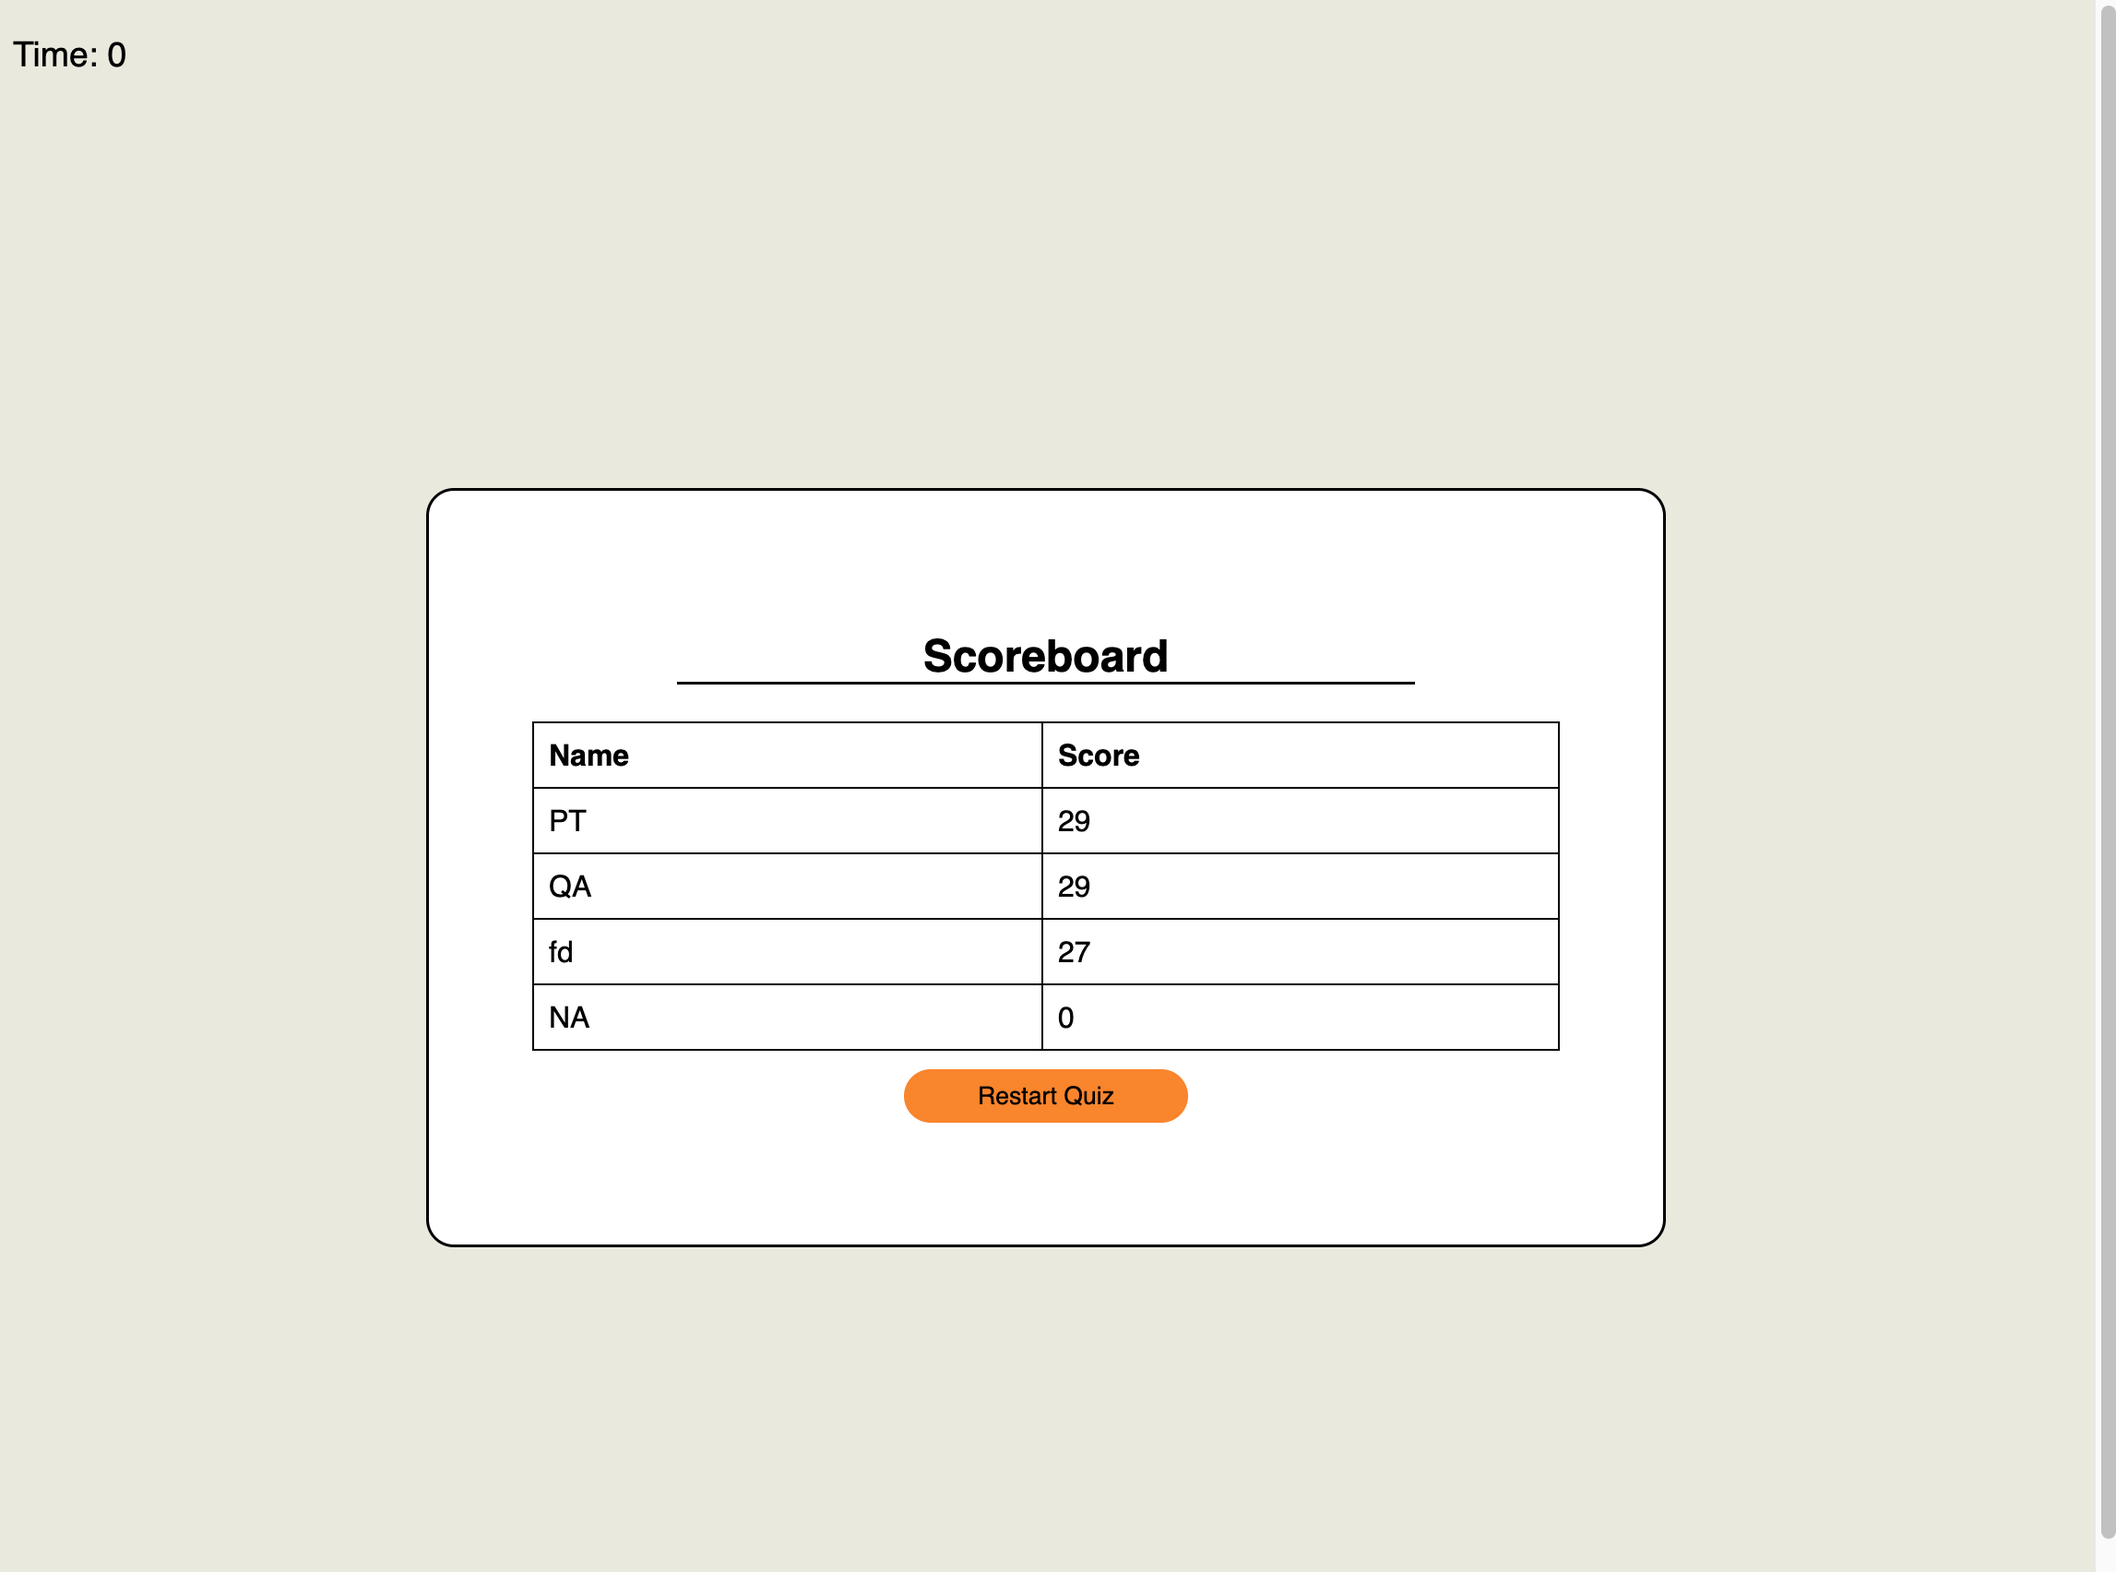
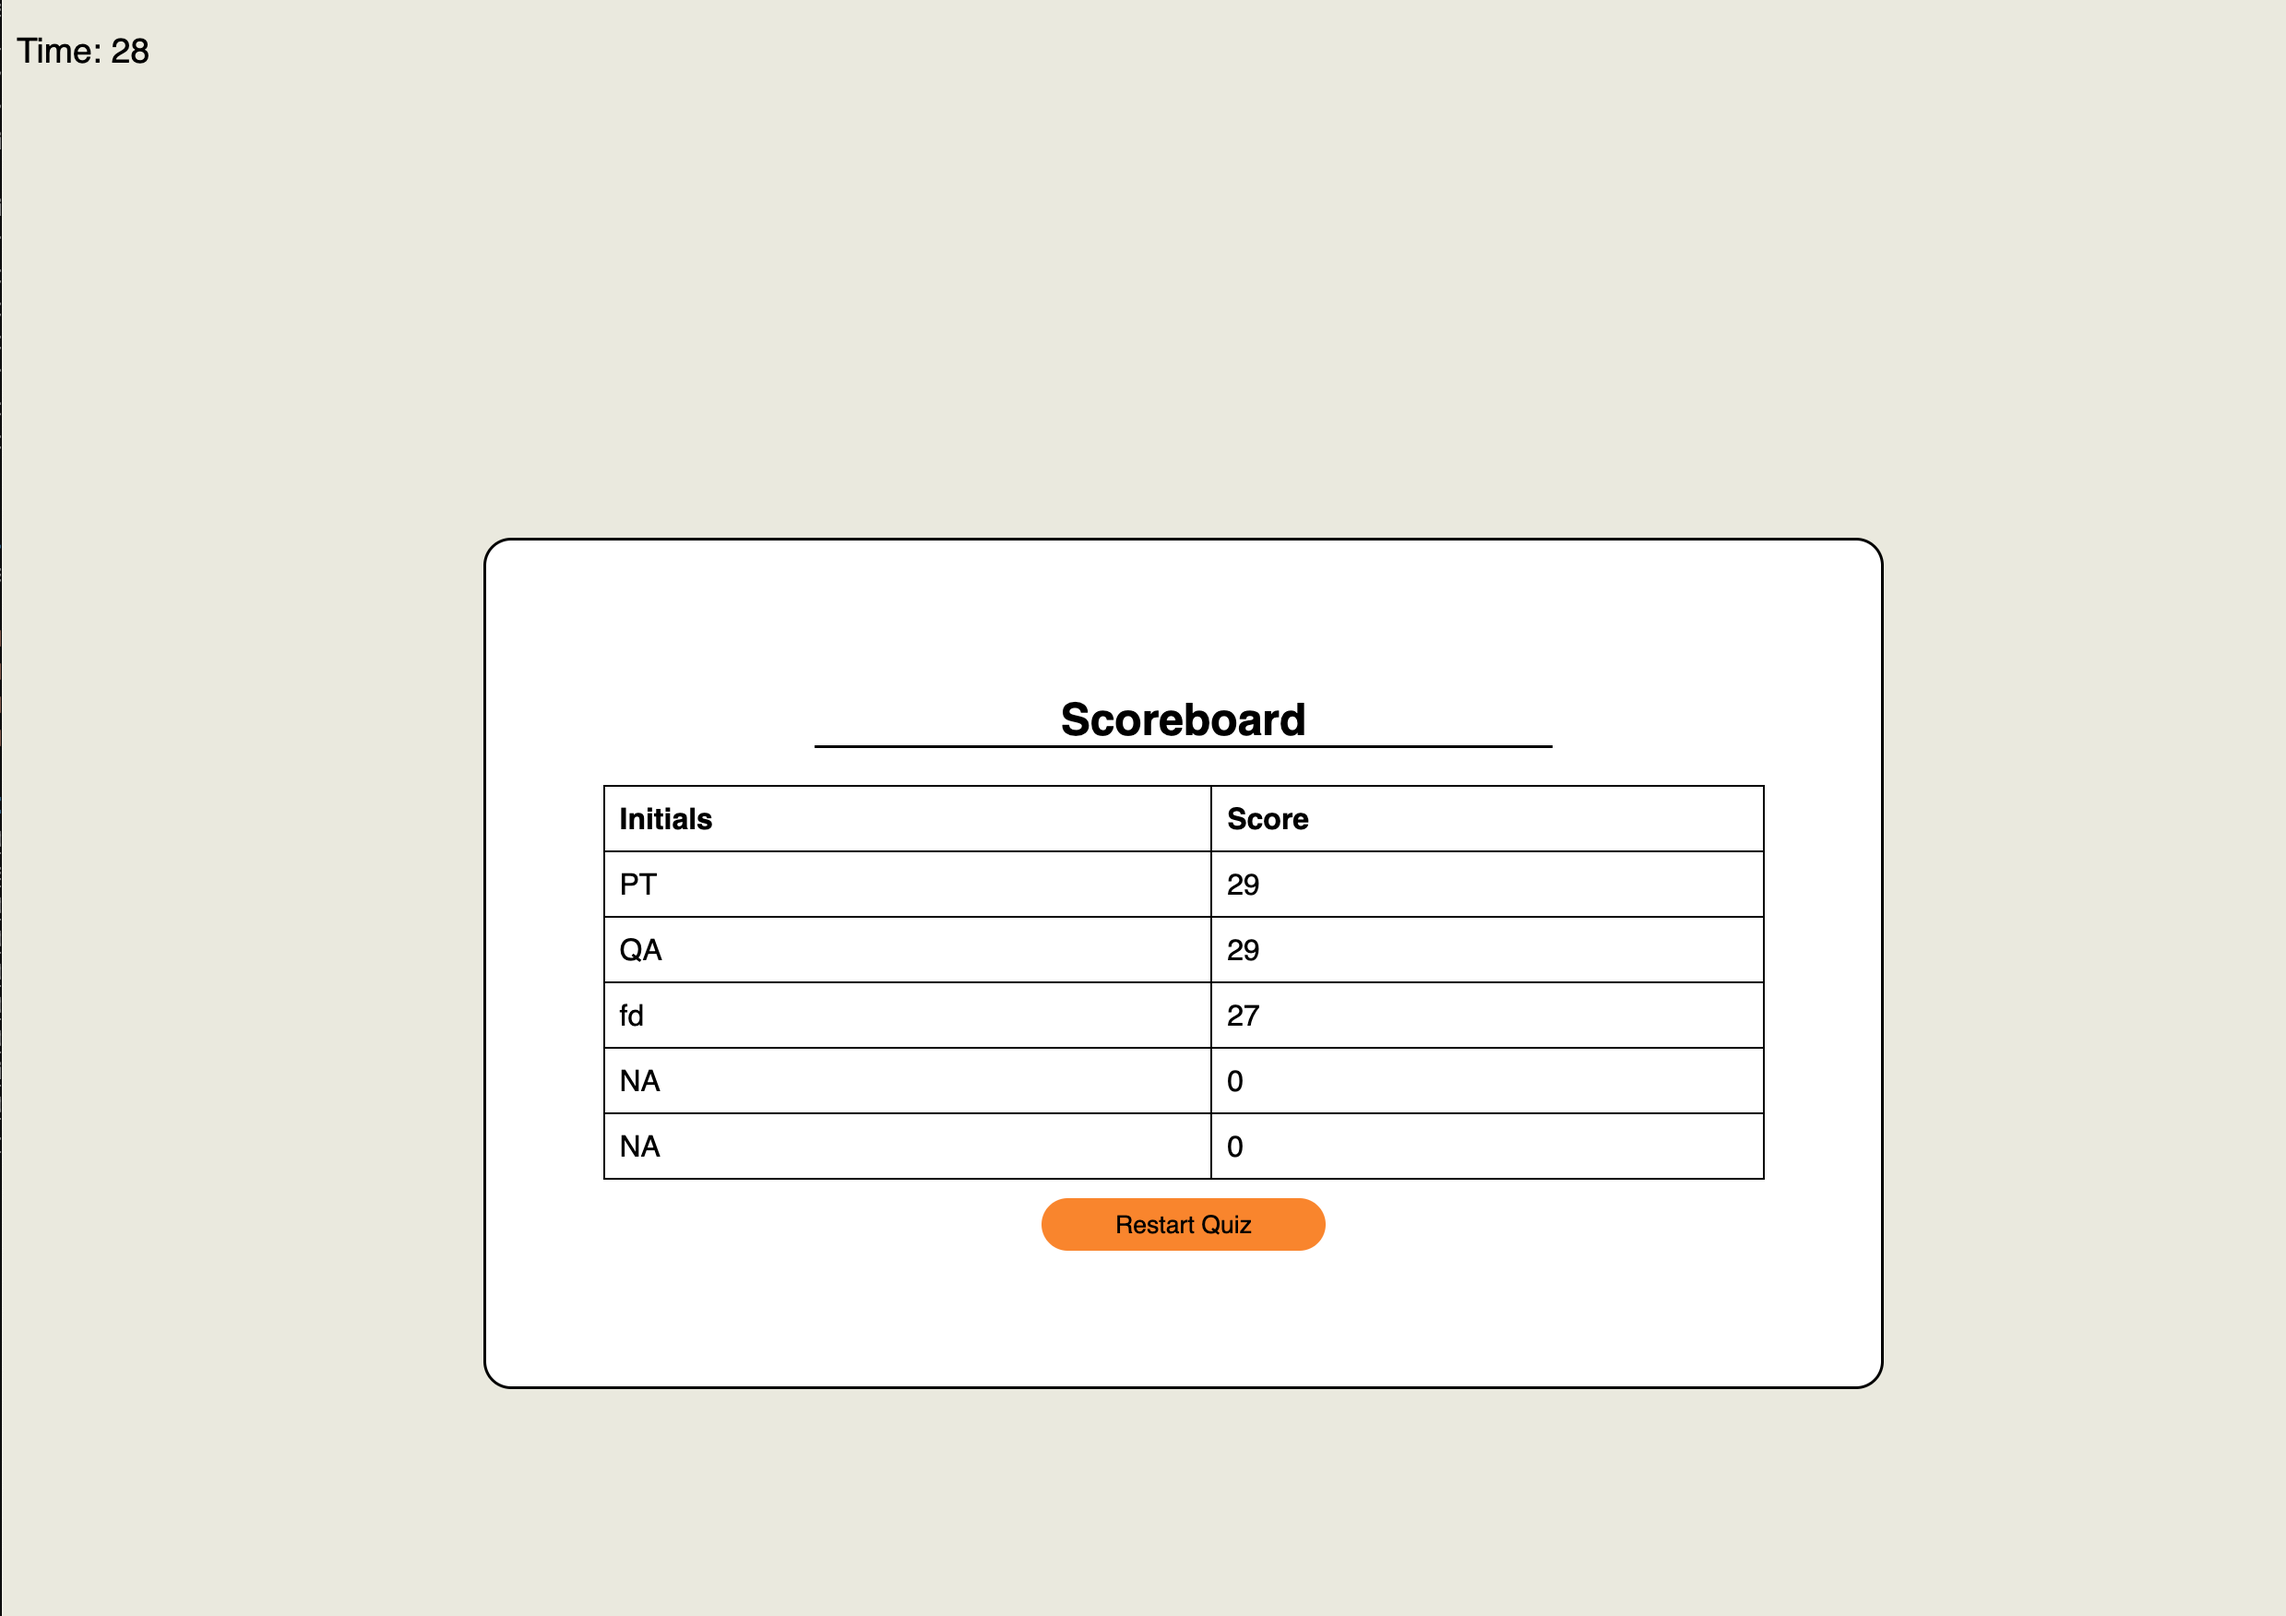
changes to one screenshot and index.html

diff --git a/index.html b/index.html
@@ -44,7 +44,7 @@
         <table id="scoreboard">
         <thead>
             <tr>
-              <th>Name</th>
+              <th>Initials</th>
               <th>Score</th>
             </tr>
           </thead>
